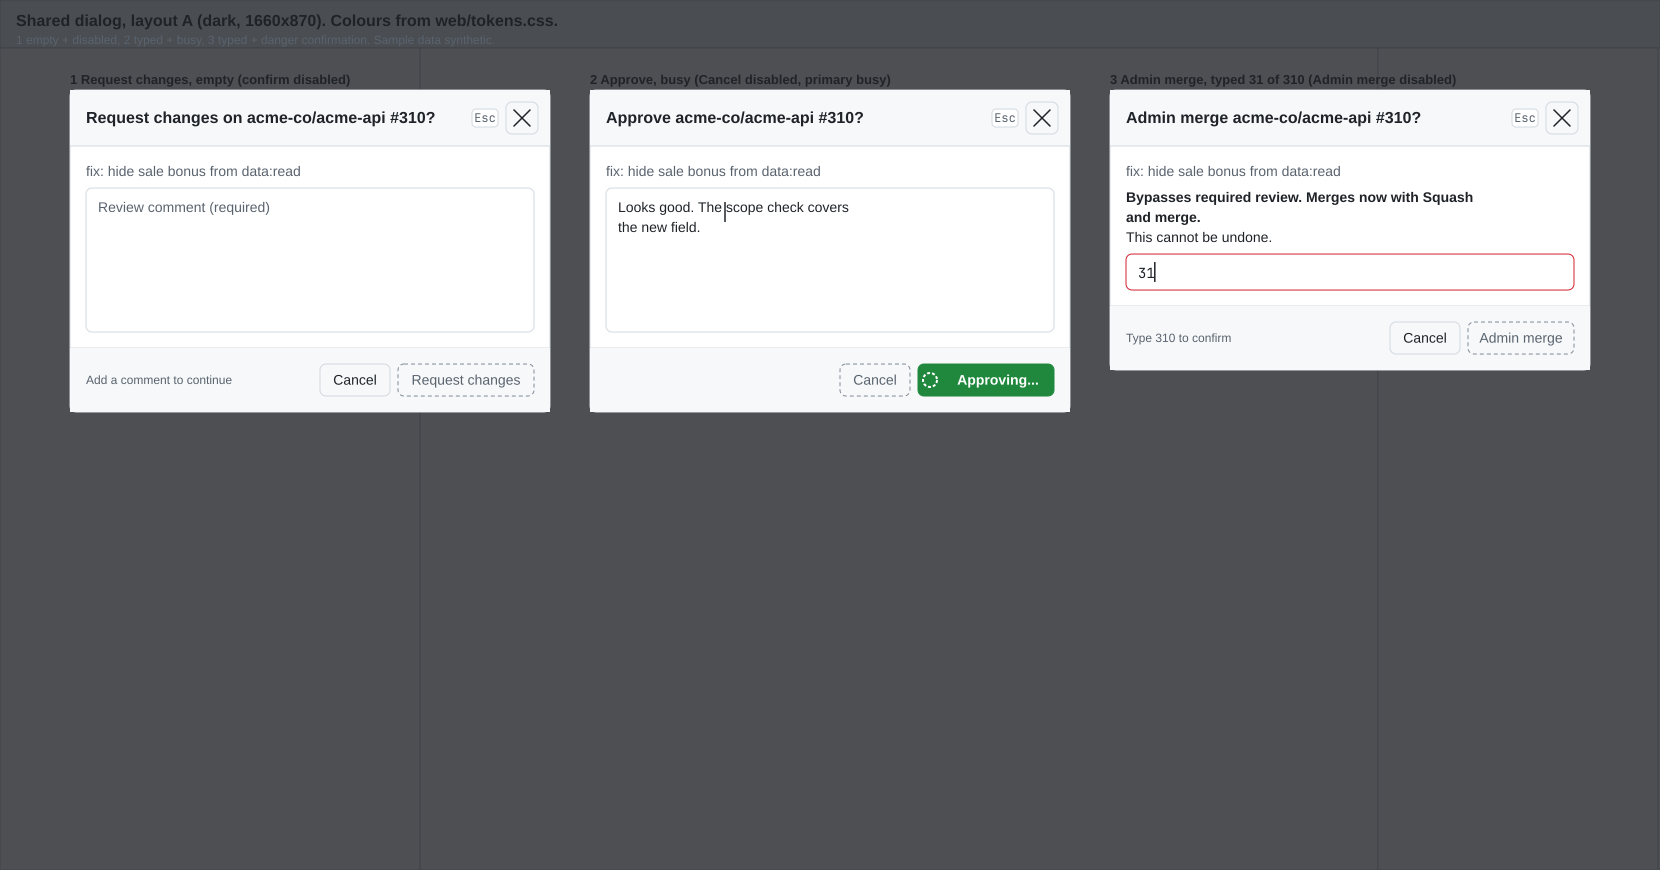
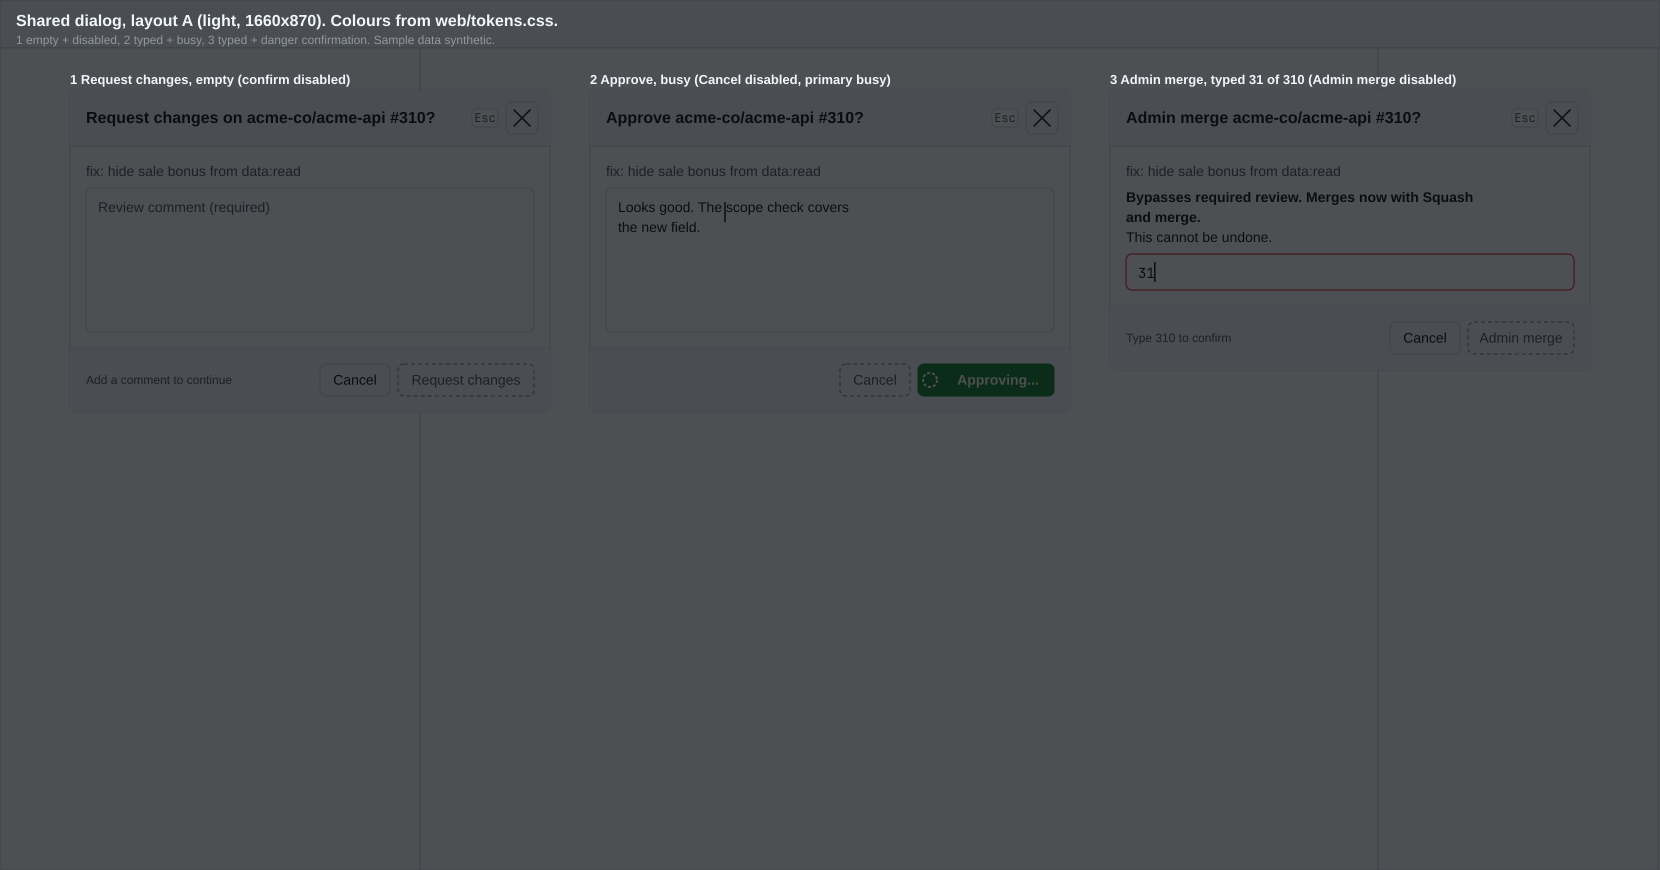
docs: fix dialog mockup sheets and spec

diff --git a/docs/design/dialog-spec.md b/docs/design/dialog-spec.md
@@ -18,6 +18,7 @@ geometry is the same, only the body and footer buttons change.
   else the confirm button, and returns to the opener on close. Tab stays inside. Page scroll is locked.
 - Enter and Ctrl+Enter submit exactly as today (`ActionDialog` rules in `web/Dialogs.tsx`).
 - While `busy`: Cancel and X are disabled, the confirm button shows `.spinner` plus the busy word, `aria-busy` is set.
+- Disabled buttons keep their label and the dashed border; the footer note says why. The note never replaces the dashed border.
 - The scrim stays `#010409b3`. Dialog z-index stays above the app (50).
 - Phone sheets and `NotifyMenu` do not use this wrapper.
 
@@ -40,7 +41,7 @@ geometry is the same, only the body and footer buttons change.
 | Footer note | `AppDialog` (`footerNote` prop) | 16 left of footer, vertically centred (baseline 36 below footer top) | 12/18 400 | `fgColor-muted` |
 | Cancel | `.btn` default | 32 tall, 70 wide, right-aligned with 16 right padding | 14/20 400 | `button-default-bgColor-rest` fill, `borderColor-default` 1px stroke, radius 6; text `fgColor-default` |
 | Confirm (primary) | `.btn.btn-primary` | 32 tall, width by label, 8 gap left of Cancel | 14/20 600 | `button-primary-bgColor-rest` fill, `borderColor-success-emphasis` 1px stroke, radius 6; text `fgColor-onEmphasis` |
-| Admin merge (danger) | `.btn.btn-danger` | 32 tall, 106 wide | 14/20 600 | `bgColor-danger-emphasis` fill, `borderColor-danger-emphasis` 1px stroke, radius 6; text `fgColor-onEmphasis` |
+| Admin merge (danger) | `.btn.btn-danger` | 32 tall, 106 wide | 14/20 600 | `bgColor-danger-muted` fill, `borderColor-danger-emphasis` 1px stroke, radius 6; text `fgColor-danger`; hover fill `borderColor-danger-emphasis`, text `fgColor-onEmphasis`. The mockup shows it disabled. |
 | Disabled button | `.btn[disabled]` | same box | 14/20 400 | fill `none`, 1px dashed `borderColor-emphasis`, text `fgColor-muted` |
 | Busy button | `.btn.is-busy` | same box as primary, 14 spinner at 12 from left, label centred at button_x + 80 | 14/20 600 | `button-primary-bgColor-rest` fill, `borderColor-success-emphasis` 1px stroke; spinner and text `fgColor-onEmphasis` |
 
@@ -74,7 +75,7 @@ pinned. Dialog max height is `100vh - 64px`. The page never scrolls.
 - `web/Dialogs.tsx` (`ActionDialog`, `HelpDialog`)
 - `web/FixDialogs.tsx`
 - `web/PairDialog.tsx`
-- `web/settings/SettingsDialog.tsx` (width `large`, see note)
+- `web/settings/SettingsDialog.tsx` (custom width 840, see note)
 - `web/settings/Welcome.tsx`
 - `web/issues/IssueDialogs.tsx`
 - `web/issues/SplitDialog.tsx`
